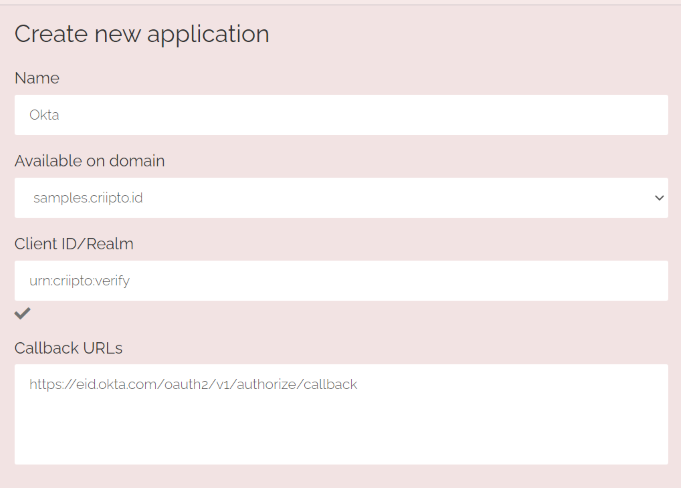
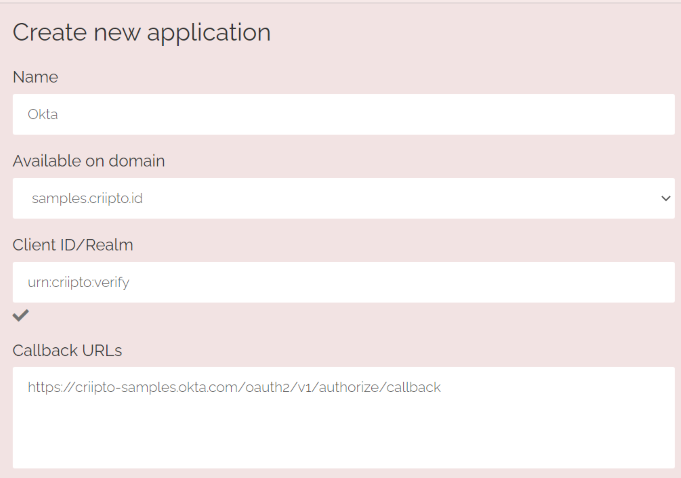
Better register-app screenshot, now uses a Criipto-specific callback
URL

diff --git a/authentication/okta.md b/authentication/okta.md
@@ -20,7 +20,7 @@ Once configured you may test that everything works from Okta.
 The setup requires a bit of switching back-and-forth between Criipto and Okta's respective management dashboards, so we recommend that you have them open simultaneously to make the process really smooth.
 
 Before you get started, you will need the following information:
-- The callback URL for your Okta tenant - this will depend on the DNS name you use in Okta for running your logins. The value will probably look something like `https://eid.okta.com/oauth2/v1/authorize/callback`, but check your Okta settings to make sure.
+- The callback URL for your Okta tenant - this will depend on the DNS name you use in Okta for running your logins. The value will probably look something like `https://your-company-name.okta.com/oauth2/v1/authorize/callback`, but check your Okta settings to make sure. We have use `criipto-samples` as a replacement for `your-company-name` in this tutorial.
 - _[Optional]_ The `post_logout_redirect_url` for your Okta tenant.
 
 <a name="register"></a>
